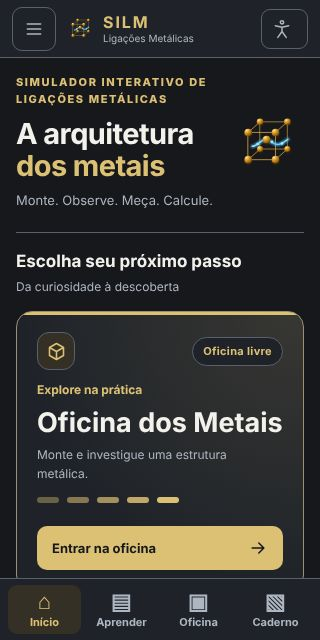
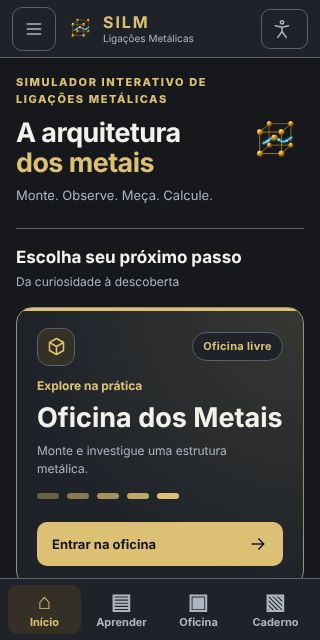
Início: título do hero em duas linhas também com fontes largas do sistema
O CI (Ubuntu) desenha system-ui com uma fonte mais larga que a do ambiente local, e em
320 px "A arquitetura" não cabia ao lado do símbolo: o título quebrava em três linhas
("A / arquitetura / dos metais"). O mesmo aconteceria em computadores com DejaVu Sans.

- Até 370 px, o símbolo do hero passa de 76 para 60 px e o título varia de 26 a 29 px;
  "A arquitetura" cabe numa linha com Inter, Liberation e DejaVu Sans.
- TEST-HOME mede o título também com uma fonte larga, para o resultado não depender da
  máquina (reproduz a falha do CI localmente sem a correção).
- Captura de 320×640 atualizada em docs/evidence-parity/HOME/.

Claude-Session: https://claude.ai/code/session_01UKyjXAAQRNeKJ2nGF8jLmz

Changed region(s): [[0.0312, 0.375, 0.9375, 0.9062], [0.0312, 0.1875, 0.6562, 0.3438], [0.75, 0.1875, 0.9375, 0.2812]]

diff --git a/integracao/integration.css b/integracao/integration.css
@@ -259,3 +259,5 @@ body[data-silm-route="inicio"] main{padding-top:0}
 .si-header-action:hover,.si-header-action[aria-expanded="true"]{background:var(--tint);border-color:var(--accent)}
 @media(max-width:900px){.si-home-family{padding-top:16px}}
 @media(max-width:640px){.si-home-family .si-path-icon svg{width:21px;height:21px}}
+/* Em 320–370 px, "A arquitetura" precisa caber numa linha também com fontes largas do sistema (DejaVu Sans ≈ 213 px a 29 px). */
+@media(max-width:370px){.si-home-family .si-home-hero-icon{width:60px;height:60px}.si-home-family .si-home-hero h1{font-size:clamp(26px,8.4vw,29px)}}
